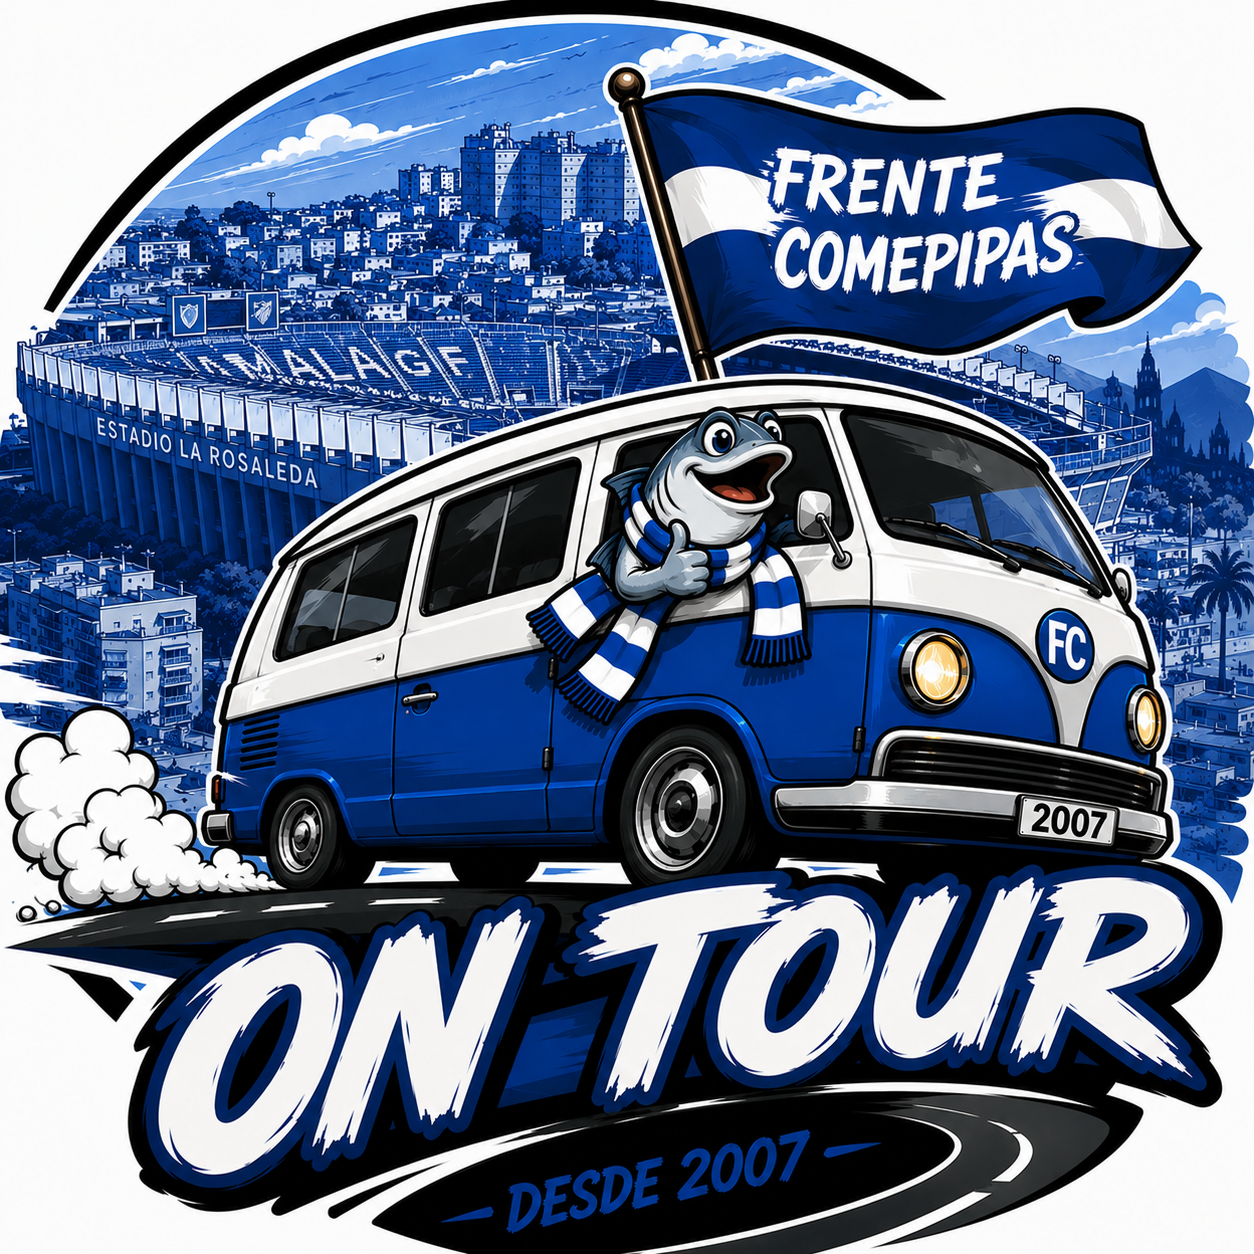
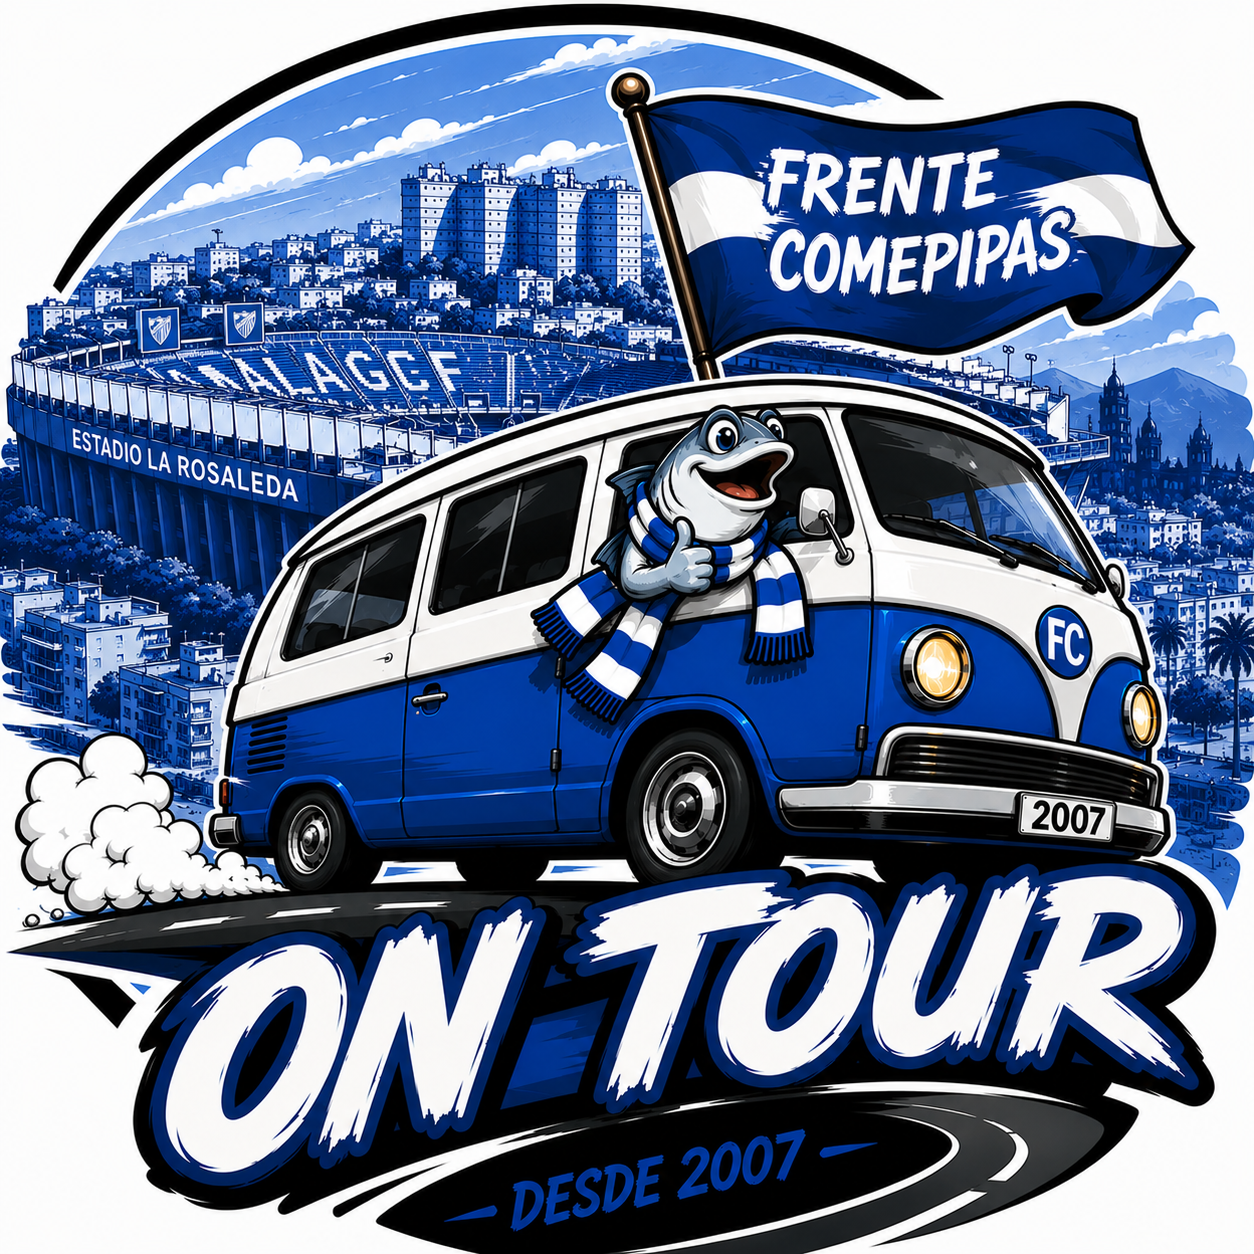
commit 26 galeria y on tour

diff --git a/multimedia-admin.html b/multimedia-admin.html
@@ -1,69 +1,1 @@
-<!doctype html><html lang="es"><head><meta charset="utf-8"><meta name="viewport" content="width=device-width,initial-scale=1"><title>Gestión multimedia | Frente Comepipas</title><link rel="preconnect" href="https://fonts.googleapis.com"><link rel="preconnect" href="https://fonts.gstatic.com" crossorigin><link href="https://fonts.googleapis.com/css2?family=Bebas+Neue&family=Montserrat:wght@400;600;700;800;900&display=swap" rel="stylesheet"><link rel="stylesheet" href="assets/css/variables.css"><link rel="stylesheet" href="assets/css/style.css"><link rel="stylesheet" href="assets/css/responsive.css"><script src="assets/js/roles.js"></script><script src="assets/js/auth-bootstrap-v13.3.js"></script><script>if(!protectAdminPage("multimedia")){throw new Error("Acceso bloqueado");}</script></head><body><header class="site-header"><div class="container nav"><a class="brand" href="index.html"><img src="assets/images/brand/escudo-transparente.png"><div><span data-config="nombre">FRENTE COMEPIPAS</span><small data-config="subtitulo">PEÑA MALAGUISTA</small></div></a><button class="menu-btn"><span></span><span></span><span></span></button><nav class="nav-links"><a class="" href="index.html">Inicio</a><a class="" href="la-pena.html">La Peña</a><a class="" href="noticias.html" data-feature="noticias">Noticias</a><a class="" href="tienda.html" data-feature="tienda">Material</a><a class="" href="viajes.html" data-feature="viajes">Viajes</a><a class="" href="socios.html" data-feature="socios">Socios</a><a class="" href="galeria.html" data-feature="galeria">Galería</a><a class="active" href="contacto.html" data-feature="contacto">Contacto</a></nav></div></header>
-
-<main class="admin-page">
-<section class="admin-layout">
-  <aside class="admin-sidebar">
-    <h2>Multimedia</h2>
-    <p>Frente Comepipas</p>
-    <a class="btn btn-gold" href="admin.html">Volver al panel</a>
-    <button id="resetMedia" class="btn btn-outline">Restaurar datos</button>
-    <div class="admin-note">Fotos, vídeos y documentos en modo local.</div>
-  </aside>
-
-  <div class="admin-content media-admin">
-    <div class="members-topbar">
-      <div><span class="kicker">Biblioteca</span><h1>Gestión multimedia</h1></div>
-      <div class="members-topbar-actions">
-        <button id="exportMedia" class="btn btn-dark-outline">Exportar inventario</button>
-        <button id="newMediaButton" class="btn btn-primary">Nuevo elemento</button>
-      </div>
-    </div>
-
-    <section class="media-admin-stats">
-      <div class="media-admin-stat"><span>Total</span><strong id="mediaTotal">0</strong></div>
-      <div class="media-admin-stat"><span>Imágenes</span><strong id="mediaImages">0</strong></div>
-      <div class="media-admin-stat"><span>Vídeos</span><strong id="mediaVideos">0</strong></div>
-      <div class="media-admin-stat"><span>Documentos</span><strong id="mediaDocuments">0</strong></div>
-    </section>
-
-    <section class="media-admin-toolbar">
-      <input id="mediaSearch" type="search" placeholder="Buscar multimedia...">
-      <select id="mediaType"><option>Todos</option><option>Imagen</option><option>Vídeo</option><option>Documento</option></select>
-      <select id="mediaStatus"><option>Todos</option><option>Publicado</option><option>Borrador</option><option>Privado</option></select>
-      <select id="mediaSeason"><option>Todas</option></select>
-    </section>
-
-    <section id="mediaAdminGrid" class="media-admin-grid"></section>
-  </div>
-</section>
-</main>
-
-<div id="mediaModal" class="store-modal">
-  <div class="store-modal-dialog">
-    <button class="store-modal-close">×</button>
-    <h2 id="mediaModalTitle">Nuevo elemento</h2>
-
-    <form id="mediaForm" class="store-form-grid">
-      <input type="hidden" name="id">
-      <label>Título<input name="titulo" required></label>
-      <label>Tipo<select name="tipo"><option>Imagen</option><option>Vídeo</option><option>Documento</option></select></label>
-      <label>Álbum<input name="album" required></label>
-      <label>Temporada<input name="temporada" required></label>
-      <label>Estado<select name="estado"><option>Borrador</option><option>Publicado</option><option>Privado</option></select></label>
-      <label>Fecha<input name="fecha" type="date"></label>
-      <label class="full">Archivo o URL<input name="archivo" placeholder="Se completa al elegir archivo"></label><label class="full">Elegir imagen desde el PC<input id="mediaFile" type="file" accept="image/*"><small>Para publicar en la galería sin mover archivos ni editar código.</small></label>
-      <label class="full">Miniatura<input name="miniatura"></label>
-      <label class="full">Descripción<textarea name="descripcion" rows="4"></textarea></label>
-      <button class="btn btn-primary full" type="submit">Guardar elemento</button>
-    </form>
-  </div>
-</div>
-
-<div id="mediaPreviewModal" class="store-modal">
-  <div class="store-modal-dialog">
-    <button class="store-modal-close">×</button>
-    <div id="mediaPreviewBody"></div>
-  </div>
-</div>
-
-<footer class="site-footer"><div class="container footer-grid"><div><h4 data-config="nombre">Frente Comepipas</h4><p data-config="lema">Levantando copas contigo desde 2007.</p></div><div><h4>La Peña</h4><a href="la-pena.html">Historia</a><a href="socios.html" data-feature="socios">Hazte socio</a></div><div><h4>Actividad</h4><a href="viajes.html" data-feature="viajes">Viajes</a><a href="calendario.html" data-feature="calendario">Calendario</a><a href="calendario.html" data-feature="calendario">Calendario</a><a href="tienda.html" data-feature="tienda">Material</a></div><div><h4>Contacto</h4><p data-config="ciudad">Málaga, Andalucía</p><p data-config="email">[email redacted]</p><a href="admin.html">Administración</a></div></div><div class="footer-bottom">© 2026 Frente Comepipas</div></footer><div class="toast"></div><script src="assets/js/config.js"></script><script src="assets/js/site-settings.js"></script><script src="assets/js/site-settings-runtime.js"></script><script src="assets/js/roles.js"></script><script src="assets/js/admin-users.js"></script><script src="assets/js/auth.js?v=22-commit6"></script><script src="assets/js/audit.js"></script><script src="assets/js/features.js"></script><script src="assets/js/members-db.js"></script><script src="assets/js/fees.js"></script><script src="assets/js/products.js"></script><script src="assets/js/orders.js"></script><script src="assets/js/trips.js"></script><script src="assets/js/news.js"></script><script src="assets/js/app.js"></script><script src="assets/js/admin.js"></script><script src="assets/js/local-image-tools.js"></script><script src="assets/js/media-library.js"></script><script src="assets/js/media-admin.js"></script><script src="assets/js/dashboard.js"></script><script src="https://cdn.jsdelivr.net/npm/@supabase/supabase-js@2"></script><script src="assets/js/supabase-config.js"></script><script src="assets/js/supabase-client.js"></script><script src="assets/js/api.js"></script><script src="assets/js/data-mode.js"></script><script src="https://cdn.jsdelivr.net/npm/@supabase/supabase-js@2"></script><script src="assets/js/supabase-config.js"></script><script src="assets/js/supabase-client.js?v=13.3.0-r5"></script><script src="assets/js/auth.js?v=22-commit6"></script><script src="assets/js/auth-session-guard-v13.3.js?v=13.3.0-r5"></script></body></html>
+<!doctype html><html lang="es"><head><meta charset="utf-8"><meta name="viewport" content="width=device-width,initial-scale=1"><title>Galería · Administración</title><link rel="stylesheet" href="assets/css/variables.css"><link rel="stylesheet" href="assets/css/style.css"><link rel="stylesheet" href="assets/css/responsive.css"><link rel="stylesheet" href="assets/css/gallery-v26.css"><script src="assets/js/roles.js"></script><script src="assets/js/auth-bootstrap-v13.3.js"></script><script>if(!protectAdminPage('multimedia'))throw new Error('Acceso bloqueado');</script></head><body><main class="admin-page"><section class="admin-layout"><aside class="admin-sidebar"><h2>Galería</h2><p>Álbumes y fotografías conectados a Supabase.</p><a class="btn btn-gold" href="admin.html">Volver al panel</a></aside><div class="admin-content"><div class="members-topbar"><div><span class="kicker">Commit 26</span><h1>Gestión de álbumes</h1></div><button id="newAlbum" class="btn btn-primary">Nuevo álbum</button></div><div id="galleryAdminGrid" class="gallery-admin-grid"></div></div></section></main><div id="albumModal" class="store-modal"><div class="store-modal-dialog"><button class="store-modal-close" data-close>×</button><h2>Álbum</h2><form id="albumForm" class="store-form-grid"><input type="hidden" name="id"><label>Título<input name="titulo" required></label><label>Temporada<input name="temporada"></label><label>Fecha<input name="fecha" type="date"></label><label>Orden<input name="orden" type="number" value="0"></label><label class="full">URL de portada<input name="portada_url" placeholder="Se puede usar la URL de una foto del álbum"></label><label class="full">Descripción<textarea name="descripcion" rows="4"></textarea></label><label class="full"><input name="publicado" type="checkbox"> Publicar álbum</label><button class="btn btn-primary full">Guardar álbum</button></form></div></div><div id="photosModal" class="store-modal"><div class="store-modal-dialog"><button class="store-modal-close" data-close>×</button><h2 id="photoAlbumTitle">Fotografías</h2><form id="photoUploadForm"><label>Seleccionar varias fotografías<input id="photoFiles" type="file" accept="image/jpeg,image/png,image/webp" multiple required></label><button class="btn btn-primary">Subir fotografías</button></form><div id="albumPhotosAdmin" class="photo-admin-list"></div></div></div><script src="https://cdn.jsdelivr.net/npm/@supabase/supabase-js@2"></script><script src="assets/js/supabase-config.js"></script><script src="assets/js/supabase-client.js"></script><script src="assets/js/gallery-service-v26.js"></script><script src="assets/js/gallery-admin-v26.js"></script></body></html>

diff --git a/galeria.html b/galeria.html
@@ -1,45 +1,1 @@
-<!doctype html><html lang="es"><head><meta charset="utf-8"><meta name="viewport" content="width=device-width,initial-scale=1"><title>Galería | Frente Comepipas</title><link rel="preconnect" href="https://fonts.googleapis.com"><link rel="preconnect" href="https://fonts.gstatic.com" crossorigin><link href="https://fonts.googleapis.com/css2?family=Bebas+Neue&family=Montserrat:wght@400;600;700;800;900&display=swap" rel="stylesheet"><link rel="stylesheet" href="assets/css/variables.css"><link rel="stylesheet" href="assets/css/style.css"><link rel="stylesheet" href="assets/css/responsive.css"></head><body><header class="site-header"><div class="container nav"><a class="brand" href="index.html"><img src="assets/images/brand/escudo-transparente.png"><div><span data-config="nombre">FRENTE COMEPIPAS</span><small data-config="subtitulo">PEÑA MALAGUISTA</small></div></a><button class="menu-btn"><span></span><span></span><span></span></button><nav class="nav-links"><a class="" href="index.html">Inicio</a><a class="" href="la-pena.html">La Peña</a><a class="" href="noticias.html" data-feature="noticias">Noticias</a><a class="" href="tienda.html" data-feature="tienda">Material</a><a class="" href="viajes.html" data-feature="viajes">ON TOUR</a><a class="" href="socios.html" data-feature="socios">Socios</a><a class="active" href="galeria.html" data-feature="galeria">Galería</a><a class="" href="contacto.html" data-feature="contacto">Contacto</a></nav></div></header><main>
-<section class="page-hero">
-  <div class="container">
-    <h1>GALERÍA</h1>
-    <p>Fotos, vídeos, viajes y momentos de la peña.</p>
-  </div>
-</section>
-
-<section class="section">
-  <div class="container">
-    <div class="section-heading">
-      <span class="kicker">Multimedia</span>
-      <h2>Nuestros recuerdos</h2>
-      <p>Las fotos y vídeos se gestionan desde el panel de administración, sin tocar código.</p>
-    </div>
-
-    <div class="gallery-controls">
-      <select id="galleryCategory">
-        <option>Todas</option>
-      </select>
-      <select id="gallerySeason">
-        <option>Todas</option>
-      </select>
-    </div>
-
-    <div id="galleryGrid" class="gallery-masonry"></div>
-  </div>
-</section>
-</main>
-
-<div id="galleryViewer" class="gallery-viewer" aria-hidden="true">
-  <div class="gallery-viewer-dialog">
-    <button id="galleryClose" class="gallery-close" aria-label="Cerrar">×</button>
-    <button id="galleryPrev" class="gallery-nav gallery-prev" aria-label="Anterior">‹</button>
-    <button id="galleryNext" class="gallery-nav gallery-next" aria-label="Siguiente">›</button>
-
-    <div id="viewerMedia" class="gallery-viewer-media"></div>
-    <div class="gallery-viewer-info">
-      <small id="viewerMeta"></small>
-      <h2 id="viewerTitle"></h2>
-      <p id="viewerDescription"></p>
-    </div>
-  </div>
-</div>
-<footer class="site-footer"><div class="container footer-grid"><div><h4 data-config="nombre">Frente Comepipas</h4><p data-config="lema">Levantando copas contigo desde 2007.</p></div><div><h4>La Peña</h4><a href="la-pena.html">Historia</a><a href="socios.html" data-feature="socios">Hazte socio</a></div><div><h4>Actividad</h4><a href="viajes.html" data-feature="viajes">ON TOUR</a><a href="calendario.html" data-feature="calendario">Calendario</a><a href="calendario.html" data-feature="calendario">Calendario</a><a href="tienda.html" data-feature="tienda">Material</a></div><div><h4>Contacto</h4><p data-config="ciudad">Málaga, Andalucía</p><p data-config="email">[email redacted]</p><a href="admin.html">Administración</a></div></div><div class="footer-bottom">© 2026 Frente Comepipas</div></footer><div class="toast"></div><script src="assets/js/config.js"></script><script src="assets/js/site-settings.js"></script><script src="assets/js/site-settings-runtime.js"></script><script src="assets/js/features.js"></script><script src="assets/js/local-image-tools.js"></script><script src="assets/js/gallery.js"></script><script src="assets/js/app.js"></script><script src="assets/js/gallery-app.js"></script><script src="https://cdn.jsdelivr.net/npm/@supabase/supabase-js@2"></script><script src="assets/js/supabase-config.js"></script><script src="assets/js/supabase-client.js"></script><script src="assets/js/api.js"></script><script src="assets/js/data-mode.js"></script></body></html>
+<!doctype html><html lang="es"><head><meta charset="utf-8"><meta name="viewport" content="width=device-width,initial-scale=1"><title>Galería | Frente Comepipas</title><link rel="stylesheet" href="assets/css/variables.css"><link rel="stylesheet" href="assets/css/style.css"><link rel="stylesheet" href="assets/css/responsive.css"><link rel="stylesheet" href="assets/css/gallery-v26.css"></head><body><header class="site-header"><div class="container nav"><a class="brand" href="index.html"><img src="assets/images/brand/escudo-transparente.png"><div><span>FRENTE COMEPIPAS</span><small>PEÑA MALAGUISTA</small></div></a><nav class="nav-links"><a href="index.html">Inicio</a><a href="la-pena.html">La Peña</a><a href="noticias.html">Noticias</a><a href="tienda.html">Material</a><a href="viajes.html">ON TOUR</a><a href="socios.html">Socios</a><a class="active" href="galeria.html">Galería</a></nav></div></header><main><section class="page-hero"><div class="container"><span class="kicker">Nuestros momentos</span><h1>GALERÍA</h1><p>Cada imagen principal abre una carpeta con todas las fotografías de ese momento.</p></div></section><section class="section"><div class="container"><div class="section-heading"><span class="kicker">Álbumes</span><h2>Recuerdos de Frente Comepipas</h2></div><div id="galleryAlbums" class="gallery-albums"></div></div></section></main><footer class="site-footer"><div class="footer-bottom">© 2026 Frente Comepipas</div></footer><script src="https://cdn.jsdelivr.net/npm/@supabase/supabase-js@2"></script><script src="assets/js/supabase-config.js"></script><script src="assets/js/supabase-client.js"></script><script src="assets/js/gallery-service-v26.js"></script><script src="assets/js/gallery-public-v26.js"></script></body></html>

diff --git a/entradas.html b/entradas.html
@@ -1,1 +1,1 @@
-<!doctype html><html lang="es"><head><meta charset="utf-8"><meta name="viewport" content="width=device-width,initial-scale=1"><title>Entradas | Frente Comepipas</title><link rel="stylesheet" href="assets/css/variables.css"><link rel="stylesheet" href="assets/css/style.css"><link rel="stylesheet" href="assets/css/responsive.css"><link rel="stylesheet" href="assets/css/tickets-v18.css"></head><body><header class="site-header"><div class="container nav"><a class="brand" href="index.html"><img src="assets/images/brand/escudo-transparente.png"><div><span>FRENTE COMEPIPAS</span><small>PEÑA MALAGUISTA</small></div></a><nav class="nav-links"><a href="index.html">Inicio</a><a href="la-pena.html">La Peña</a><a href="noticias.html">Noticias</a><a href="tienda.html">Material</a><a class="active" href="entradas.html">Entradas</a><a href="socios.html">Socios</a></nav></div></header><main><section class="page-hero"><div class="container"><span class="kicker">Exclusivo para socios</span><h1>ENTRADAS PARA PARTIDOS</h1><p>Consulta los partidos y gestiona tus solicitudes desde tu área privada.</p><a class="btn btn-primary" href="area-socio.html">Entrar en mi área</a></div></section><section class="section"><div class="container"><div class="section-heading"><span class="kicker">Funcionamiento</span><h2>La solicitud no es una compra</h2></div><div class="ticket-grid"><article class="ticket-card"><h3>1. La Peña abre el plazo</h3><p>La directiva publica el partido, el precio orientativo, el cupo y la fecha límite.</p></article><article class="ticket-card"><h3>2. El socio solicita</h3><p>Debe identificarse en su área privada. Solo se admite una solicitud por partido.</p></article><article class="ticket-card"><h3>3. La directiva asigna</h3><p>El estado puede ser admitida, lista de espera, rechazada o entregada.</p></article></div></div></section></main><footer class="site-footer"><div class="footer-bottom">© 2026 Frente Comepipas</div></footer></body></html>
+<!doctype html><html lang="es"><head><meta charset="utf-8"><meta http-equiv="refresh" content="0;url=viajes.html"><link rel="canonical" href="viajes.html"><title>ON TOUR | Frente Comepipas</title></head><body><p>Redirigiendo a <a href="viajes.html">ON TOUR</a>…</p></body></html>

diff --git a/viajes.html b/viajes.html
@@ -1,1 +1,1 @@
-<!doctype html><html lang="es"><head><meta charset="utf-8"><meta name="viewport" content="width=device-width,initial-scale=1"><title>ON TOUR | Frente Comepipas</title><link rel="stylesheet" href="assets/css/variables.css"><link rel="stylesheet" href="assets/css/style.css"><link rel="stylesheet" href="assets/css/responsive.css"><link rel="stylesheet" href="assets/css/on-tour-v25.css"></head><body><main class="section on-tour-page"><div class="container"><a href="index.html">← Volver</a><header class="on-tour-header"><span class="kicker">Frente Comepipas</span><h1>ON TOUR</h1><p>Los próximos desplazamientos y solicitudes de entradas de la peña.</p></header><div id="publicTravels" class="on-tour-grid"></div><div class="on-tour-actions"><a class="btn btn-primary" href="area-socio.html">Entrar en el Área del Socio</a></div></div></main><script src="https://cdn.jsdelivr.net/npm/@supabase/supabase-js@2"></script><script src="assets/js/supabase-config.js"></script><script src="assets/js/supabase-client.js"></script><script src="assets/js/on-tour-service-v25.js"></script><script src="assets/js/on-tour-public-v25.js"></script></body></html>
+<!doctype html><html lang="es"><head><meta charset="utf-8"><meta name="viewport" content="width=device-width,initial-scale=1"><title>ON TOUR | Frente Comepipas</title><link rel="stylesheet" href="assets/css/variables.css"><link rel="stylesheet" href="assets/css/style.css"><link rel="stylesheet" href="assets/css/responsive.css"><link rel="stylesheet" href="assets/css/on-tour-v25.css"></head><body><header class="site-header"><div class="container nav"><a class="brand" href="index.html"><img src="assets/images/brand/escudo-transparente.png"><div><span>FRENTE COMEPIPAS</span><small>PEÑA MALAGUISTA</small></div></a><nav class="nav-links"><a href="index.html">Inicio</a><a href="la-pena.html">La Peña</a><a href="noticias.html">Noticias</a><a href="tienda.html">Material</a><a class="active" href="viajes.html">ON TOUR</a><a href="socios.html">Socios</a><a href="galeria.html">Galería</a></nav></div></header><main><section class="page-hero"><div class="container"><span class="kicker">A tu lado a todos lados</span><h1>ON TOUR</h1><p>Solicita aquí tus entradas para acompañar al Málaga CF en sus desplazamientos.</p><a class="btn btn-primary" href="area-socio.html">Entrar en mi área</a></div></section><section class="section"><div class="container"><div class="section-heading"><span class="kicker">Funcionamiento</span><h2>¿Cómo funciona ON TOUR?</h2></div><div class="ticket-grid"><article class="ticket-card"><h3>1. Abrimos el desplazamiento</h3><p>Publicamos rival, estadio, fecha límite, kilómetros desde La Rosaleda y toda la información necesaria.</p></article><article class="ticket-card"><h3>2. Solicita hasta 4 entradas</h3><p>Tu entrada y la de hasta 3 acompañantes. Todos deben ser socios de la peña y abonados del Málaga CF.</p></article><article class="ticket-card"><h3>3. La solicitud no garantiza entrada</h3><p>La adjudicación depende de las entradas facilitadas por el rival y del número total de solicitudes.</p></article></div><div id="publicTravels" class="on-tour-grid" style="margin-top:40px"></div></div></section></main><footer class="site-footer"><div class="footer-bottom">© 2026 Frente Comepipas</div></footer><script src="https://cdn.jsdelivr.net/npm/@supabase/supabase-js@2"></script><script src="assets/js/supabase-config.js"></script><script src="assets/js/supabase-client.js"></script><script src="assets/js/on-tour-service-v25.js"></script><script src="assets/js/on-tour-public-v25.js"></script></body></html>

diff --git a/album.html b/album.html
@@ -1,0 +1,1 @@
+<!doctype html><html lang="es"><head><meta charset="utf-8"><meta name="viewport" content="width=device-width,initial-scale=1"><title>Álbum | Frente Comepipas</title><link rel="stylesheet" href="assets/css/variables.css"><link rel="stylesheet" href="assets/css/style.css"><link rel="stylesheet" href="assets/css/responsive.css"><link rel="stylesheet" href="assets/css/gallery-v26.css"></head><body><main><section class="page-hero"><div class="container"><a href="galeria.html">← Volver a Galería</a><h1 id="albumTitle">ÁLBUM</h1><p id="albumDescription"></p></div></section><section class="section"><div class="container"><div id="albumPhotos" class="album-photo-grid"></div></div></section></main><div id="galleryViewer" class="gallery-viewer"><div class="gallery-viewer-dialog"><button id="galleryClose" class="gallery-close">×</button><div class="gallery-viewer-media"><img id="viewerImage" alt="Fotografía ampliada"></div></div></div><script src="https://cdn.jsdelivr.net/npm/@supabase/supabase-js@2"></script><script src="assets/js/supabase-config.js"></script><script src="assets/js/supabase-client.js"></script><script src="assets/js/gallery-service-v26.js"></script><script src="assets/js/gallery-album-v26.js"></script></body></html>

diff --git a/assets/css/gallery-v26.css b/assets/css/gallery-v26.css
@@ -1,0 +1,1 @@
+.gallery-albums{display:grid;grid-template-columns:repeat(auto-fit,minmax(260px,1fr));gap:24px}.gallery-album-card{display:block;background:#fff;border-radius:18px;overflow:hidden;box-shadow:0 12px 35px rgba(4,27,58,.12);color:inherit;text-decoration:none;transition:.2s}.gallery-album-card:hover{transform:translateY(-5px)}.gallery-album-cover{aspect-ratio:4/3;background:#dce7f5;overflow:hidden}.gallery-album-cover img{width:100%;height:100%;object-fit:cover}.gallery-album-info{padding:18px}.gallery-album-info h3{margin:4px 0 8px}.gallery-count{font-weight:800;color:#0754a6}.gallery-empty-v26{text-align:center;padding:50px 20px;background:#fff;border-radius:18px}.album-photo-grid{display:grid;grid-template-columns:repeat(auto-fit,minmax(210px,1fr));gap:14px}.album-photo{border:0;padding:0;background:none;cursor:pointer;border-radius:14px;overflow:hidden;aspect-ratio:1/1}.album-photo img{width:100%;height:100%;object-fit:cover}.gallery-admin-grid{display:grid;grid-template-columns:repeat(auto-fit,minmax(280px,1fr));gap:18px}.gallery-admin-card{background:#fff;border-radius:16px;padding:16px;box-shadow:0 8px 24px rgba(0,0,0,.08)}.gallery-admin-card img{width:100%;aspect-ratio:16/9;object-fit:cover;border-radius:12px}.gallery-admin-actions{display:flex;gap:8px;flex-wrap:wrap}.photo-admin-list{display:grid;grid-template-columns:repeat(auto-fit,minmax(160px,1fr));gap:12px}.photo-admin-item{background:#fff;padding:10px;border-radius:12px}.photo-admin-item img{width:100%;aspect-ratio:1/1;object-fit:cover;border-radius:8px}

diff --git a/assets/js/gallery-admin-v26.js b/assets/js/gallery-admin-v26.js
@@ -1,0 +1,1 @@
+document.addEventListener('DOMContentLoaded',()=>{const grid=document.querySelector('#galleryAdminGrid'),form=document.querySelector('#albumForm'),modal=document.querySelector('#albumModal'),photos=document.querySelector('#albumPhotosAdmin');let current=null;const load=async()=>{const rows=await GalleryV26.albums(true);grid.innerHTML=rows.map(a=>`<article class="gallery-admin-card">${a.portada_url?`<img src="${a.portada_url}">`:''}<h3>${a.titulo}</h3><p>${a.publicado?'Publicado':'Borrador'} · ${a.gallery_photos?.[0]?.count||0} fotos</p><div class="gallery-admin-actions"><button class="btn btn-primary" data-edit="${a.id}">Editar</button><button class="btn btn-dark-outline" data-photos="${a.id}">Fotos</button><button class="btn btn-outline" data-del="${a.id}">Eliminar</button></div></article>`).join('');grid.querySelectorAll('[data-edit]').forEach(b=>b.onclick=async()=>{let a=await GalleryV26.album(b.dataset.edit);current=a;Object.keys(a).forEach(k=>{if(form.elements[k])form.elements[k].type==='checkbox'?form.elements[k].checked=!!a[k]:form.elements[k].value=a[k]??''});modal.classList.add('open')});grid.querySelectorAll('[data-photos]').forEach(b=>b.onclick=()=>managePhotos(b.dataset.photos));grid.querySelectorAll('[data-del]').forEach(b=>b.onclick=async()=>{if(confirm('¿Eliminar este álbum y todas sus fotos?')){await GalleryV26.deleteAlbum(b.dataset.del);load()}})};async function managePhotos(id){current=await GalleryV26.album(id);document.querySelector('#photoAlbumTitle').textContent=current.titulo;photos.innerHTML=current.photos.map(x=>`<div class="photo-admin-item"><img src="${x.imagen_url}"><button class="btn btn-outline" data-pdel="${x.id}">Eliminar</button></div>`).join('');photos.querySelectorAll('[data-pdel]').forEach(b=>b.onclick=async()=>{await GalleryV26.deletePhoto(b.dataset.pdel);managePhotos(id)});document.querySelector('#photosModal').classList.add('open')}document.querySelector('#newAlbum').onclick=()=>{current=null;form.reset();form.elements.id.value='';modal.classList.add('open')};document.querySelectorAll('[data-close]').forEach(b=>b.onclick=()=>b.closest('.store-modal').classList.remove('open'));form.onsubmit=async e=>{e.preventDefault();let o=Object.fromEntries(new FormData(form));o.publicado=form.elements.publicado.checked;await GalleryV26.saveAlbum(o);modal.classList.remove('open');load()};document.querySelector('#photoUploadForm').onsubmit=async e=>{e.preventDefault();let fs=[...document.querySelector('#photoFiles').files];for(const f of fs){let url=await GalleryV26.upload(current.id,f);await GalleryV26.addPhoto({album_id:current.id,imagen_url:url,titulo:f.name,orden:current.photos.length})}await managePhotos(current.id);await load()};load().catch(e=>alert(e.message))});

diff --git a/assets/js/gallery-album-v26.js b/assets/js/gallery-album-v26.js
@@ -1,0 +1,1 @@
+document.addEventListener('DOMContentLoaded',async()=>{const p=new URLSearchParams(location.search).get('album'),grid=document.querySelector('#albumPhotos');if(!p||!grid)return;try{const a=await GalleryV26.album(p);document.querySelector('#albumTitle').textContent=a.titulo;document.querySelector('#albumDescription').textContent=a.descripcion||'';grid.innerHTML=a.photos.map((x,i)=>`<button class="album-photo" data-i="${i}"><img src="${x.imagen_url}" alt="${x.titulo||a.titulo}"></button>`).join('');const viewer=document.querySelector('#galleryViewer'),img=document.querySelector('#viewerImage');grid.querySelectorAll('button').forEach(b=>b.onclick=()=>{img.src=a.photos[+b.dataset.i].imagen_url;viewer.classList.add('open')});document.querySelector('#galleryClose').onclick=()=>viewer.classList.remove('open');viewer.onclick=e=>{if(e.target===viewer)viewer.classList.remove('open')}}catch(e){grid.innerHTML=`<p>${e.message}</p>`}});

diff --git a/assets/js/gallery-public-v26.js b/assets/js/gallery-public-v26.js
@@ -1,0 +1,1 @@
+document.addEventListener('DOMContentLoaded',async()=>{const box=document.querySelector('#galleryAlbums');if(!box)return;const e=s=>String(s??'').replace(/[&<>"']/g,m=>({'&':'&amp;','<':'&lt;','>':'&gt;','"':'&quot;',"'":'&#39;'}[m]));try{const rows=await GalleryV26.albums(false);box.innerHTML=rows.length?rows.map(a=>{const n=a.gallery_photos?.[0]?.count||0;return `<a class="gallery-album-card" href="album.html?album=${encodeURIComponent(a.slug)}"><div class="gallery-album-cover">${a.portada_url?`<img src="${e(a.portada_url)}" alt="${e(a.titulo)}">`:''}</div><div class="gallery-album-info"><small>${e(a.temporada||'')}</small><h3>${e(a.titulo)}</h3><p>${e(a.descripcion||'')}</p><span class="gallery-count">📷 ${n} fotografías</span></div></a>`}).join(''):'<div class="gallery-empty-v26"><h2>Preparando nuevos recuerdos...</h2><p>Muy pronto compartiremos aquí los mejores momentos de Frente Comepipas.</p></div>'}catch(err){box.innerHTML=`<div class="gallery-empty-v26"><p>${e(err.message)}</p></div>`}});

diff --git a/assets/js/gallery-service-v26.js b/assets/js/gallery-service-v26.js
@@ -1,0 +1,1 @@
+(()=>{'use strict';let db;async function c(){if(db)return db;db=(await window.FrenteSupabase.init()).client;return db}const slug=s=>String(s||'album').normalize('NFD').replace(/[\u0300-\u036f]/g,'').toLowerCase().replace(/[^a-z0-9]+/g,'-').replace(/(^-|-$)/g,'');window.GalleryV26={slug,async albums(admin=false){let q=(await c()).from('gallery_albums').select('*,gallery_photos(count)').order('orden').order('fecha',{ascending:false});if(!admin)q=q.eq('publicado',true);let r=await q;if(r.error)throw r.error;return r.data||[]},async album(idOrSlug){let cli=await c();let q=cli.from('gallery_albums').select('*');q=idOrSlug.includes('-')?q.eq('slug',idOrSlug):q.eq('id',idOrSlug);let a=await q.single();if(a.error)throw a.error;let p=await cli.from('gallery_photos').select('*').eq('album_id',a.data.id).order('orden').order('created_at');if(p.error)throw p.error;return {...a.data,photos:p.data||[]}},async saveAlbum(o){let cli=await c(),id=o.id;delete o.id;o.slug=o.slug||slug(o.titulo);o.publicado=!!o.publicado;o.orden=Number(o.orden||0);let r=id?await cli.from('gallery_albums').update(o).eq('id',id):await cli.from('gallery_albums').insert(o);if(r.error)throw r.error},async deleteAlbum(id){let r=await(await c()).from('gallery_albums').delete().eq('id',id);if(r.error)throw r.error},async upload(albumId,file){let cli=await c(),ext=(file.name.split('.').pop()||'jpg').toLowerCase(),path=`${albumId}/${crypto.randomUUID()}.${ext}`;let u=await cli.storage.from('gallery').upload(path,file,{cacheControl:'3600',upsert:false});if(u.error)throw u.error;return cli.storage.from('gallery').getPublicUrl(path).data.publicUrl},async addPhoto(o){let r=await(await c()).from('gallery_photos').insert(o);if(r.error)throw r.error},async deletePhoto(id){let r=await(await c()).from('gallery_photos').delete().eq('id',id);if(r.error)throw r.error}}})();